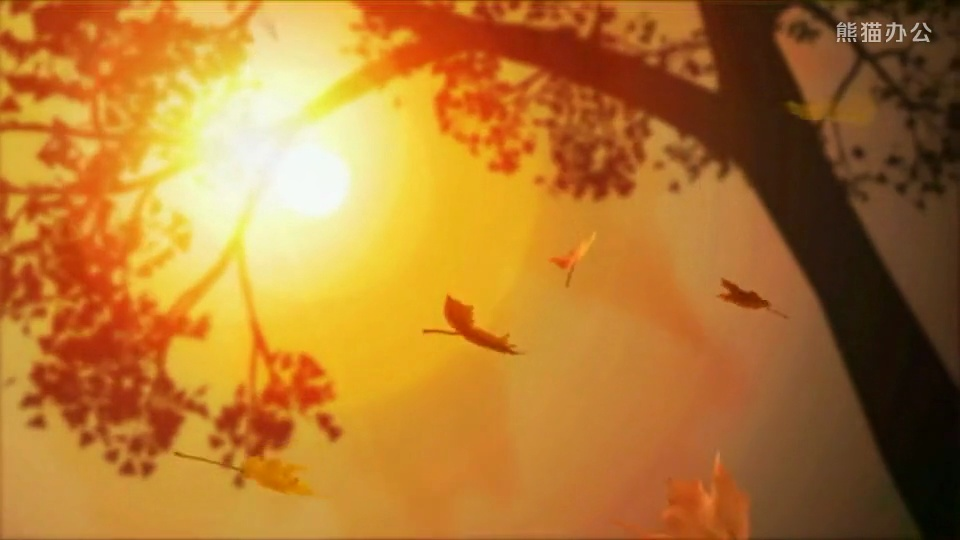
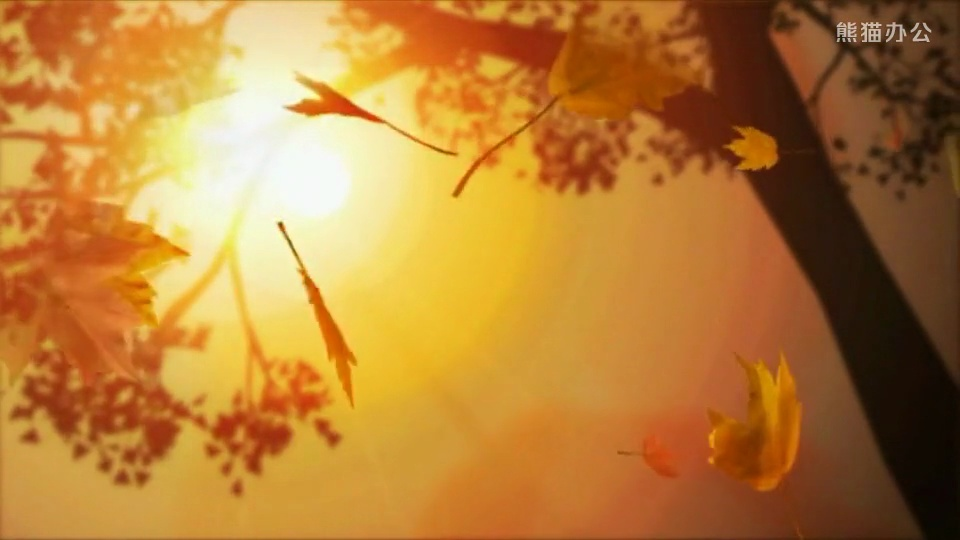
更新 -添加新功能 -升级到 V0.2.0 版本

diff --git a/vti/videos_to_images.py b/vti/videos_to_images.py
@@ -11,7 +11,6 @@ def is_camera(video_source):
     video_capture = cv2.VideoCapture(video_source)
     frame_count = int(video_capture.get(cv2.CAP_PROP_FRAME_COUNT))
     video_capture.release()
-
     return frame_count <= 0
 
 
@@ -27,6 +26,10 @@ class VideosToImages:
         self._save_path = save_path
         self._suffix = suffix
         self._frame_interval_ms = frame_interval_ms
+
+        # 确保保存路径存在
+        os.makedirs(self._save_path, exist_ok=True)
+
         asyncio.run(self.convert())
 
     async def convert(self):
@@ -35,42 +38,30 @@ class VideosToImages:
         if is_cam:
             time.sleep(2)
 
-        # 获取视频的帧率和总帧数
-        fps = int(video_capture.get(cv2.CAP_PROP_FPS))
+        # 获取视频的总帧数
         total_frames = int(video_capture.get(cv2.CAP_PROP_FRAME_COUNT))
 
         # 处理 frame_interval_ms 参数
         if isinstance(self._frame_interval_ms, tuple) and self._frame_interval_ms[0] == 'auto':
-            n = self._frame_interval_ms[1]
-            skip_frames = total_frames // n
+            num_images = self._frame_interval_ms[1]
+            # 计算每张图应该截取的帧索引
+            frame_indices = [int(i * (total_frames - 1) / (num_images - 1)) for i in range(num_images)]
         else:
+            fps = int(video_capture.get(cv2.CAP_PROP_FPS))
             skip_frames = fps * self._frame_interval_ms // 1000
+            frame_indices = [i * skip_frames for i in range(total_frames // skip_frames)]
 
-        # 截图
-        i = 0
-        j = 1
         tasks = []
         with concurrent.futures.ThreadPoolExecutor() as executor:
-            while video_capture.isOpened():
+            for i, index in enumerate(frame_indices):
+                # 设置视频捕获到指定帧
+                video_capture.set(cv2.CAP_PROP_POS_FRAMES, index)
                 success, frame = video_capture.read()
-                if not success:
-                    break
-
-                # 只在 'auto' 模式下保存 n 张图片
-                if isinstance(self._frame_interval_ms, tuple) and self._frame_interval_ms[0] == 'auto':
-                    if j <= n and (i % skip_frames == 0):
-                        loop = asyncio.get_running_loop()
-                        task = loop.run_in_executor(executor, _save_image, frame, self._save_path, j, self._suffix)
-                        tasks.append(task)
-                        j += 1
-                else:
-                    if i % skip_frames == 0:
-                        loop = asyncio.get_running_loop()
-                        task = loop.run_in_executor(executor, _save_image, frame, self._save_path, j, self._suffix)
-                        tasks.append(task)
-                        j += 1
-
-                i += 1
+                if success:
+                    loop = asyncio.get_running_loop()
+                    # 使用 i + 1 作为图片名称
+                    task = loop.run_in_executor(executor, _save_image, frame, self._save_path, i + 1, self._suffix)
+                    tasks.append(task)
 
             # 等待所有任务完成
             await asyncio.gather(*tasks)
@@ -80,13 +71,11 @@ class VideosToImages:
 
 
 if __name__ == '__main__':
-    start_time = time.time()
+    print('处理中')
 
     video_path = 'https://img.tukuppt.com/video_show/2475824/00/01/84/5b4b1d6d2b582.mp4'
     save_path = 'save_images/fallen_leaves2_images/'
 
-    VideosToImages(video_source=video_path, save_path=save_path, suffix='.jpg', frame_interval_ms=('auto', 5))
+    VideosToImages(video_source=video_path, save_path=save_path, frame_interval_ms=('auto', 5))
 
-    end_time = time.time()
-
-    print('运行时长:', end_time - start_time)
+    print('处理完成')

diff --git a/setup.py b/setup.py
@@ -2,7 +2,7 @@ from setuptools import setup, find_packages
 
 setup(
     name="vti",
-    version="0.1.0",
+    version="0.2.0",
     packages=find_packages(),
     install_requires=[
         "opencv-python",
